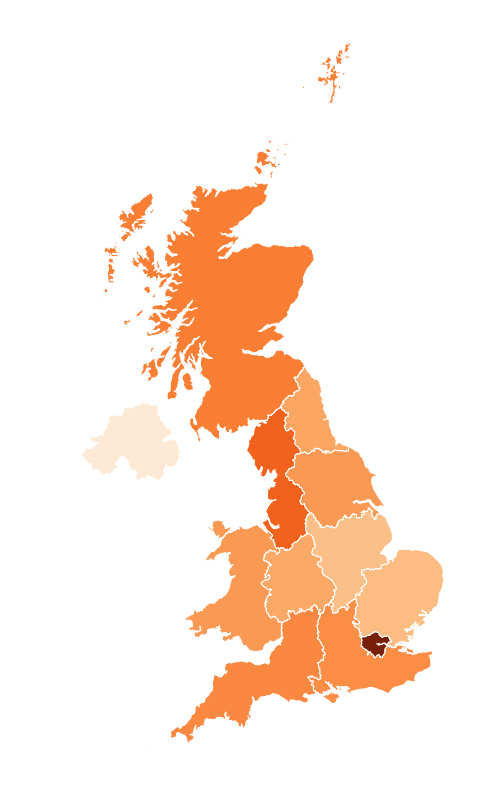
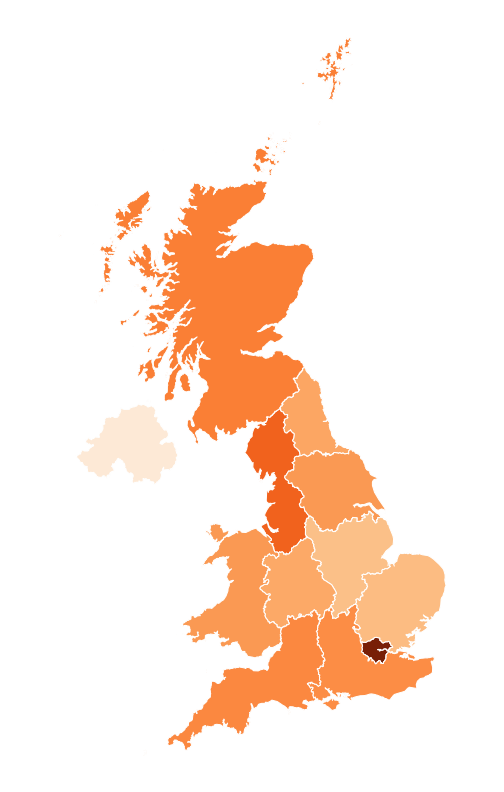
Update step-by-step

diff --git a/static_map.html b/static_map.html
@@ -409,27 +409,15 @@ ggplot(map_dt) +
 
 ```r
 theme_map &lt;- function(...) {
-  theme_minimal() +
+  theme_void() +
     theme(
-      axis.line = element_blank(),
-      axis.text.x = element_blank(),
-      axis.text.y = element_blank(),
-      axis.ticks = element_blank(),
-      axis.title.x = element_blank(),
-      axis.title.y = element_blank(),
-      panel.grid.major = element_line(color = "#ebebe5", size = NA),
-      panel.grid.minor = element_blank(),
-      plot.background = element_rect(fill = NA, color = NA),
-      panel.background = element_rect(fill = NA, color = NA),
-      legend.background = element_rect(fill = NA, color = NA),
       legend.position = "none",
-      panel.border = element_blank(),
       ...
     )
 }
 ```
 
-* We can create a custom ggplot theme to apply a simple output, e.g. removing latitude and longtitude lines
+* We can create a custom ggplot theme to remove the background features
 
 ]
 
@@ -445,7 +433,7 @@ theme_map &lt;- function(...) {
 
 ```r
 ggplot(map_dt) + 
-* geom_sf(aes(fill = total), colour = "white", size = 0.2) +
+* geom_sf(aes(fill = total), colour = "white", size = 0.5) +
 * scale_fill_distiller(palette = "Oranges", direction = 1) +
 * theme_map()
 ```
@@ -467,15 +455,13 @@ ggplot(map_dt) +
 
 ```r
 ggplot(map_dt) + 
-  geom_sf(aes(fill = total), colour = "white", size = 0.2) +    
-* geom_sf_text(aes(label = str_wrap(
-*   paste(region, scales::comma(total), sep = ": "), 10)),
-*   hjust = 0.5, size = 3) +
+  geom_sf(aes(fill = total), colour = "white", size = 0.5) +    
+* geom_sf_text(aes(label = total)) +
   scale_fill_distiller(palette = "Oranges", direction = 1) +   
   theme_map()                                                   
 ```
 
-* `geom_sf_text` allows us to add text labels using the coordinates from the sf object
+* `geom_sf_text` allows us to add text labels using the coordinates from the sf object... let's use the the total column (our headcounts)
 
 ]
 
@@ -491,22 +477,147 @@ ggplot(map_dt) +
 
 ```r
 ggplot(map_dt) + 
-  geom_sf(aes(fill = total), colour = "white", size = 0.2) +    
-  geom_sf_text(aes(label = str_wrap(                              
-    paste(region, scales::comma(total), sep = ": "), 10)),        
-    hjust = 0.5, size = 3,
-*   nudge_x = if_else(map_dt$nuts118cd=="UKI",1.5,0)) +
+  geom_sf(aes(fill = total), colour = "white", size = 0.5) +    
+* geom_sf_text(aes(label = scales::comma(total))) +
   scale_fill_distiller(palette = "Oranges", direction = 1) +   
   theme_map()                                                   
 ```
 
-* Let's also adjust London's label so that it's more easily visible
+* we can use `scales::comma` to format the number with a thousands separator
 
 ]
 
 
 .pull-left[
 ![](static_map_files/figure-html/unnamed-chunk-26-1.png)&lt;!-- --&gt;
+]
+
+---
+
+.pull-right[
+
+
+```r
+ggplot(map_dt) + 
+  geom_sf(aes(fill = total), colour = "white", size = 0.5) +    
+* geom_sf_text(aes(label = paste(region, scales::comma(total), sep = ": ")) +
+  scale_fill_distiller(palette = "Oranges", direction = 1) +   
+  theme_map()                                                   
+```
+
+* let's also add the region name to the label using `base::paste`
+
+]
+
+
+.pull-left[
+![](static_map_files/figure-html/unnamed-chunk-28-1.png)&lt;!-- --&gt;
+]
+
+---
+
+.pull-right[
+
+
+```r
+ggplot(map_dt) + 
+  geom_sf(aes(fill = total), colour = "white", size = 0.5) +    
+  geom_sf_text(
+*   aes(label =
+*     str_wrap(paste(region, scales::comma(total), sep = ": "), 12)
+*           )) +
+  scale_fill_distiller(palette = "Oranges", direction = 1) +   
+  theme_map()                                                   
+```
+
+* `stringr::str_wrap` provides a handy way of making strings wrap to a given length, in this case 12 characters
+
+]
+
+
+.pull-left[
+![](static_map_files/figure-html/unnamed-chunk-30-1.png)&lt;!-- --&gt;
+]
+
+
+---
+
+.pull-right[
+
+
+```r
+ggplot(map_dt) + 
+  geom_sf(aes(fill = total), colour = "white", size = 0.5) +    
+  geom_sf_text(
+    aes(label = 
+          str_wrap(paste(region, scales::comma(total), sep = ": "), 12),   
+*   nudge_x = if_else(map_dt$nuts118cd=="UKI",1.25,0),
+*   nudge_y = if_else(map_dt$nuts118cd=="UKJ",-0.25,0)) +
+  scale_fill_distiller(palette = "Oranges", direction = 1) +   
+  theme_map()                                                   
+```
+
+* Finally, let's also adjust the x-position of London's label, and the y-position of the South East's label
+* We could alternatively create adjustment columns in our data table and add `nudge_x = x_adjust` to sf_text's `aes` mapping
+
+]
+
+
+.pull-left[
+![](static_map_files/figure-html/unnamed-chunk-32-1.png)&lt;!-- --&gt;
+]
+
+---
+
+.pull-right[
+
+
+```r
+ggplot(map_dt) + 
+  geom_sf(aes(fill = total), colour = "white", size = 0.5) +    
+* geom_sf_label(
+    aes(label = 
+          str_wrap(paste(region, scales::comma(total), sep = ": "), 12),   
+    nudge_x = if_else(map_dt$nuts118cd=="UKI",1.25,0),                    
+    nudge_y = if_else(map_dt$nuts118cd=="UKJ",-0.25,0)) +                 
+  scale_fill_distiller(palette = "Oranges", direction = 1) +   
+  theme_map()                                                   
+```
+
+* Switching to `geom_sf_label` provides a label background and border for the text
+
+]
+
+
+.pull-left[
+![](static_map_files/figure-html/unnamed-chunk-34-1.png)&lt;!-- --&gt;
+]
+
+---
+
+.pull-right[
+
+
+```r
+ggplot(map_dt) + 
+  geom_sf(aes(fill = total), colour = "white", size = 0.5) +    
+  geom_sf_label(                                                          
+    aes(label = 
+          str_wrap(paste(region, scales::comma(total), sep = ": "), 12),   
+    nudge_x = if_else(map_dt$nuts118cd=="UKI",1.25,0),                    
+    nudge_y = if_else(map_dt$nuts118cd=="UKJ",-0.25,0),
+*   label.size = 0, alpha = 0.5) +
+  scale_fill_distiller(palette = "Oranges", direction = 1) +   
+  theme_map()                                                   
+```
+
+* We can remove the border by setting `label.size` to 0, and adjust the background transparency via `alpha`
+
+]
+
+
+.pull-left[
+![](static_map_files/figure-html/unnamed-chunk-36-1.png)&lt;!-- --&gt;
 ]
     </textarea>
 <style data-target="print-only">@media screen {.remark-slide-container{display:block;}.remark-slide-scaler{box-shadow:none;}}</style>
